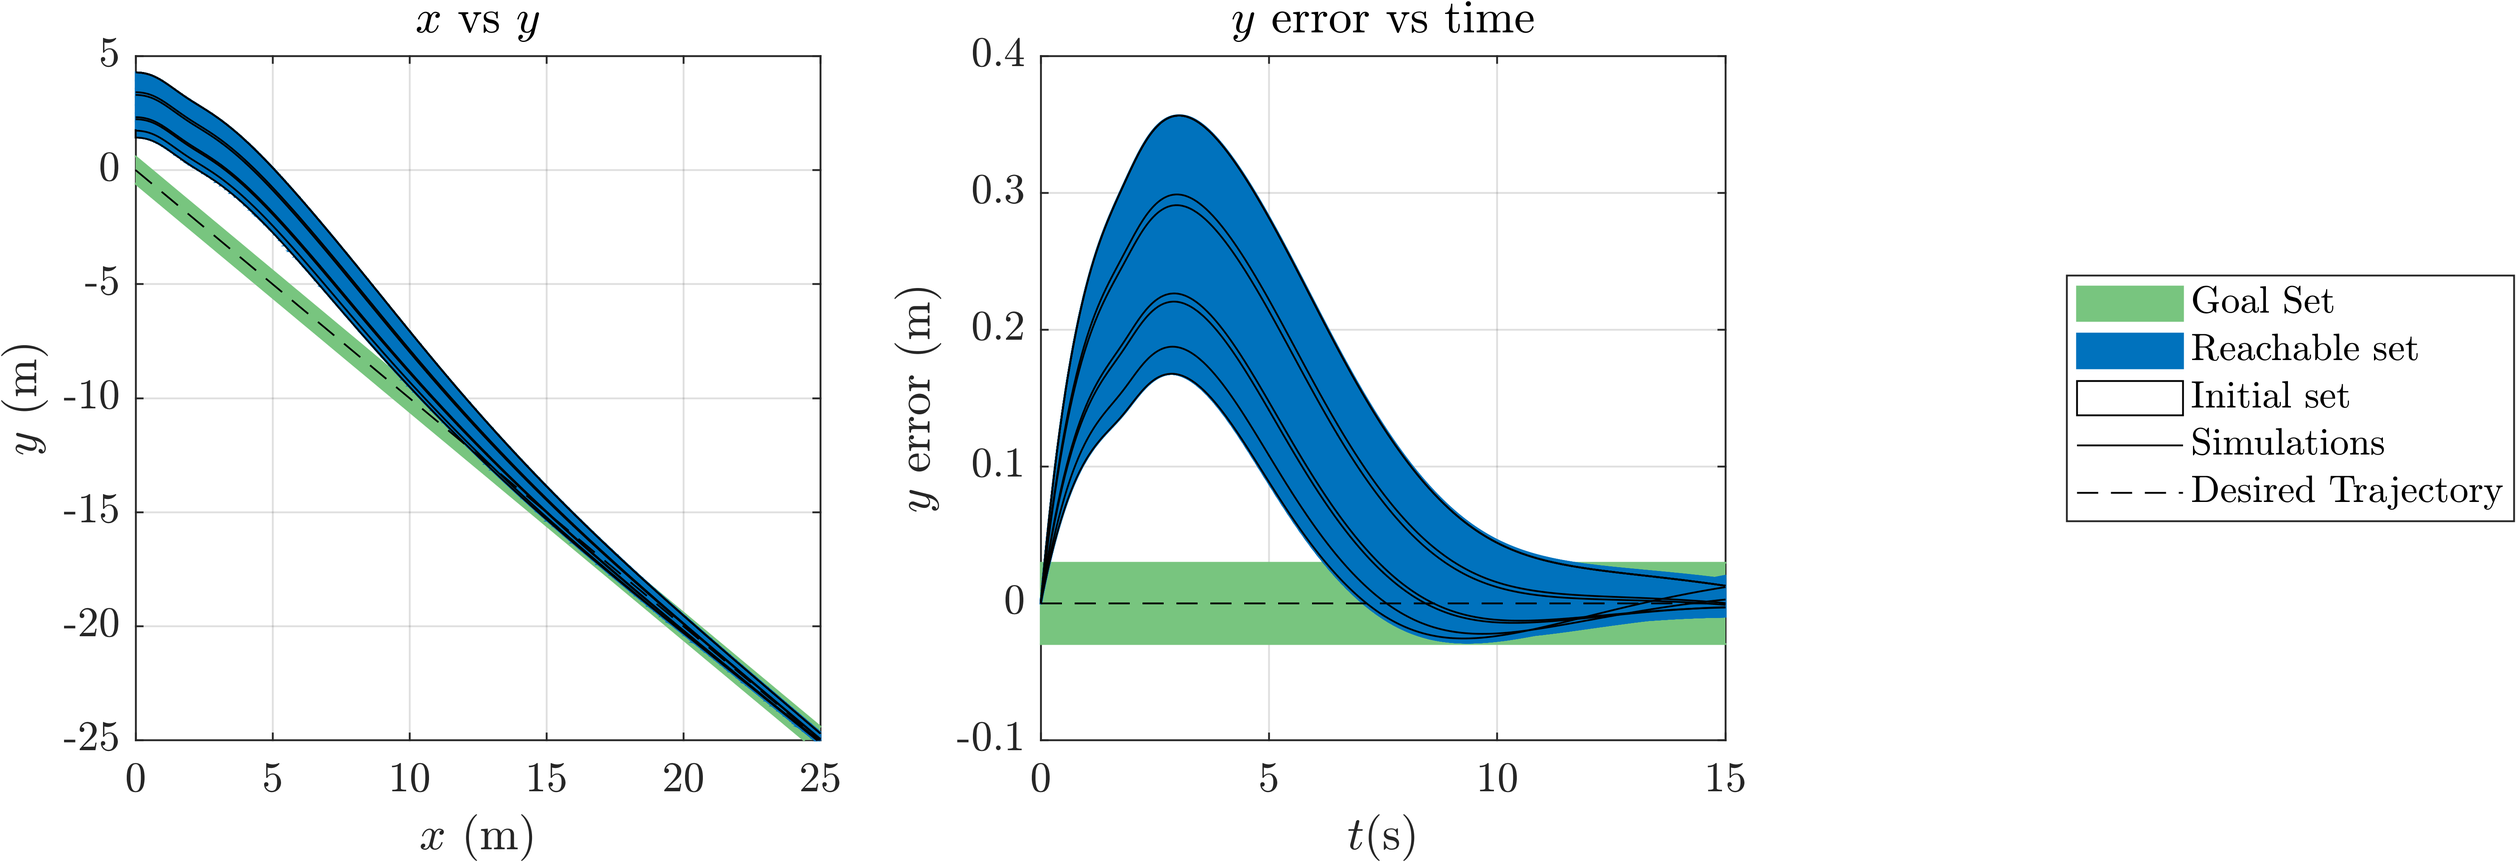
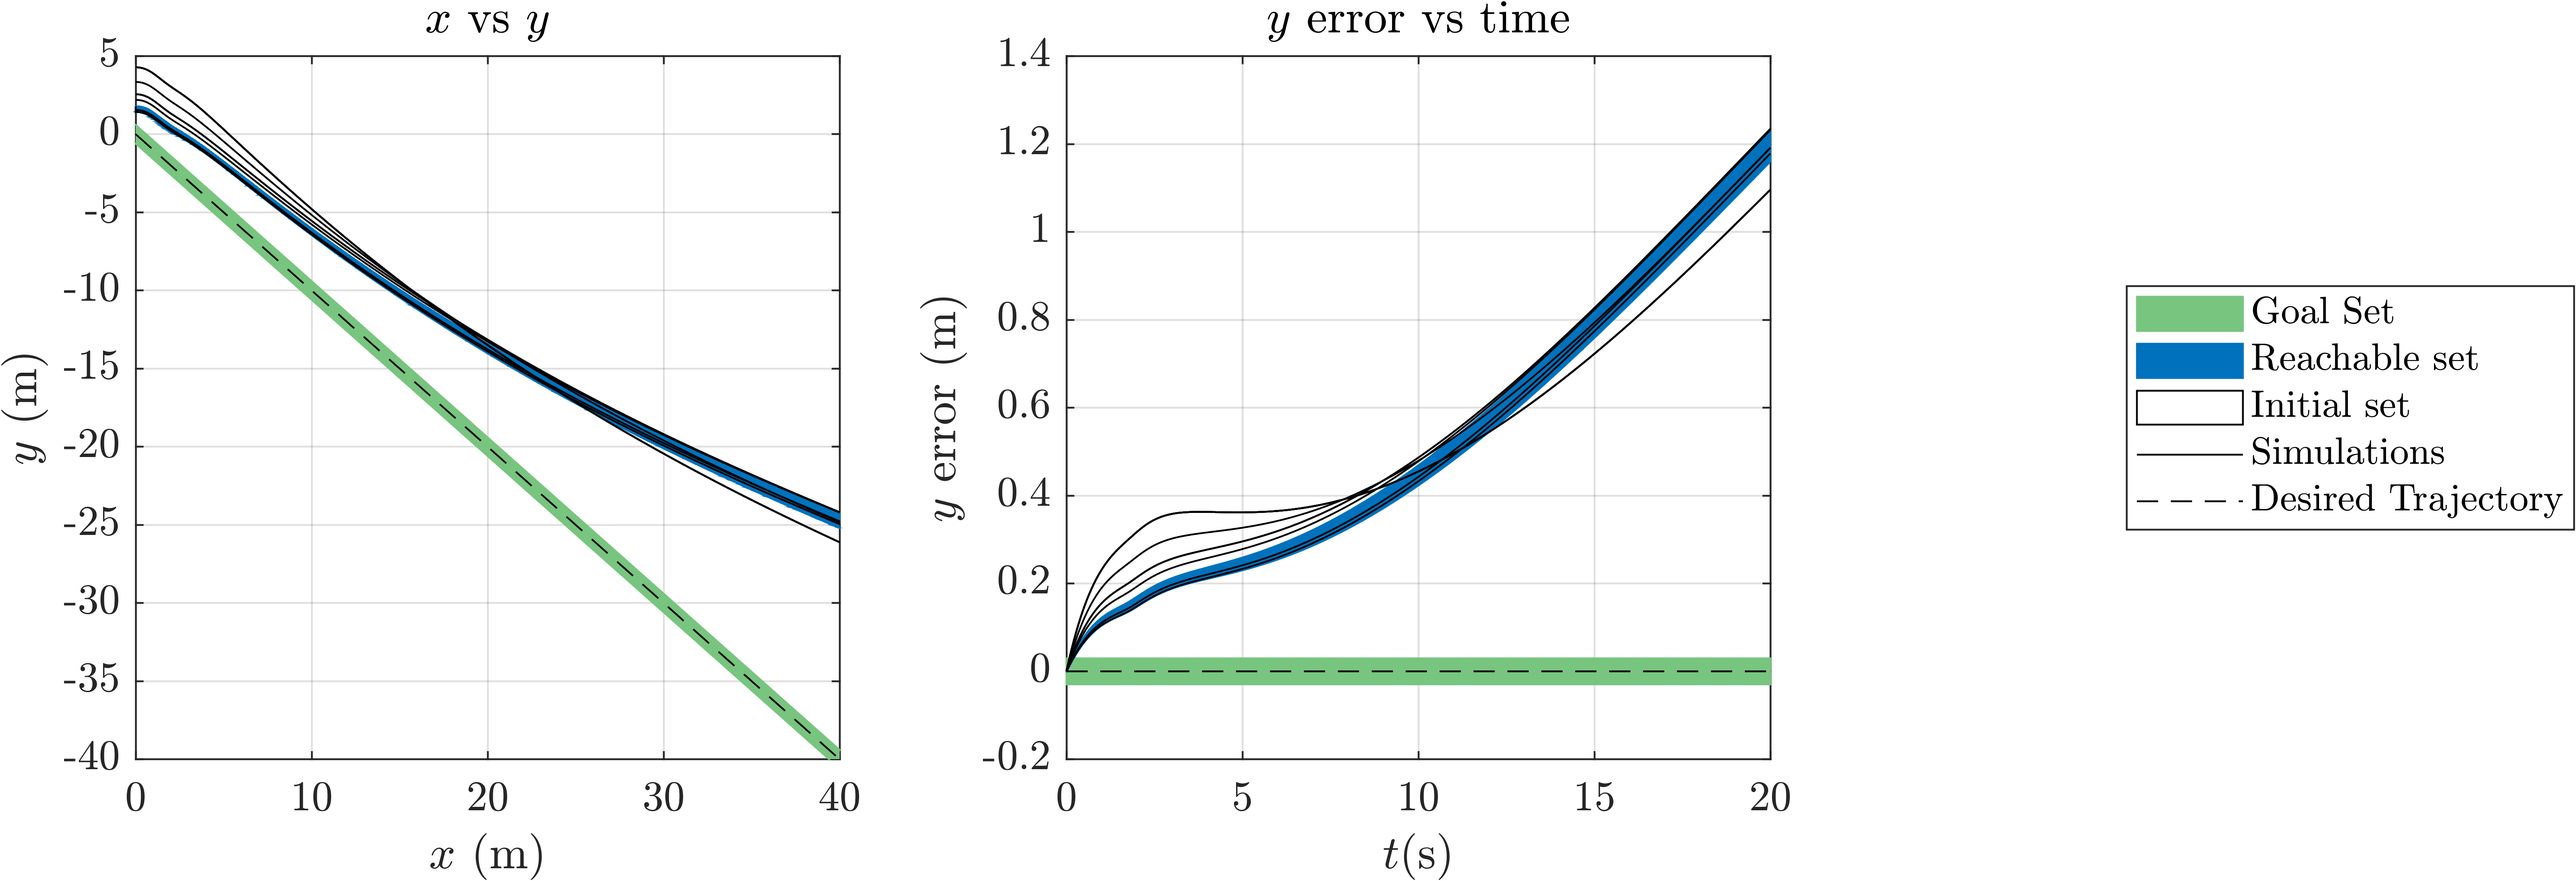
stuff

diff --git a/Alsomitra_NNCS/Reachability/Alsomitra_Closed_Loop_Reachability.m b/Alsomitra_NNCS/Reachability/Alsomitra_Closed_Loop_Reachability.m
@@ -38,7 +38,7 @@ options.nn = evParams;
 alsomitra = nonlinearSys(@nondimfreelyfallingplate6);
 tic
 
-nn = neuralNetwork.readONNXNetwork('Alsomitra_Controller5.onnx');
+nn = neuralNetwork.readONNXNetwork('adversarial_model_0.005.onnx');
 nn.evaluate(params.R0, evParams);
 nn.refine(2, "layer", "both", params.R0.c, true);
 
@@ -58,8 +58,12 @@ simRes1 = simulateRandom(sys,params);
 % Reachability Analysis ---------------------------------------------------
 toc
 % plot(x(:,5),x(:,6))
+hold on
 plot(simRes1,[5,6])
+x_c1 = -2:1:30; y_c1 = -1 * x_c1;
+plot([x_c1] * 1000/70, [y_c1]* 1000/70, '--black')
 daspect([1 1 1])
+xlim([0 25]); ylim([-25 5])
 
 t = tic;
 R = [];
@@ -72,7 +76,7 @@ for i = 1:1
     params.R0 = polyZonotope(interval( ...
         [1; 0; 0; 0; 0; start_/0.07; 0;],...
         [1; 0; 0; 0; 0; end_/0.07; 0;]));
-    [res, X, simRes] = verify(sys, spec, params, options, true);
+    [res, X, simRes] = verify(sys, spec, params, options, evParams);
 
     % figure; hold on
     % 
